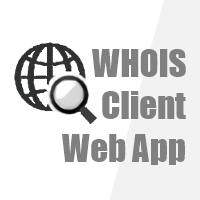
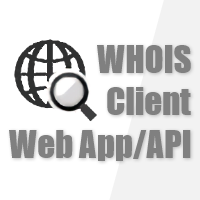
Improve UI design, and change title to "Web App/API"

Changed region(s): [[0.03, 0.18, 0.96, 0.84]]

diff --git a/WHOISClientWebApp/content/site.min.css b/WHOISClientWebApp/content/site.min.css
@@ -1,1 +1,1 @@
-[ng\:cloak],[ng-cloak],[data-ng-cloak],[x-ng-cloak],.ng-cloak,.x-ng-cloak{display:none !important;}.response{font-family:Consolas,monospace;}.response h4{font-size:100%;font-weight:bold;}.response pre{font-family:Consolas,monospace;font-size:.9rem;}.disabled button{background-color:#ccc !important;pointer-events:none;}
+[ng\:cloak],[ng-cloak],[data-ng-cloak],[x-ng-cloak],.ng-cloak,.x-ng-cloak{display:none !important;}.response{font-family:Consolas,monospace;}.response h4{font-size:100%;font-weight:bold;}.response pre{font-family:Consolas,monospace;font-size:.9rem;}.disabled button{background-color:#ccc !important;pointer-events:none;}.brand-logo{font-family:Impact,"Roboto",sans-serif;}.page-footer a:hover{text-decoration:underline;}.page-footer a:hover.grey-text{color:#bdbdbd !important;}.page-footer a:hover.grey-text.text-lighten-1{color:#cdcdcd !important;}.page-footer a:hover.grey-text.text-lighten-4{color:#fff !important;}

diff --git a/WHOISClientWebApp/content/site.scss b/WHOISClientWebApp/content/site.scss
@@ -23,3 +23,25 @@ body {
     background-color: #ccc !important;
     pointer-events: none;
 }
+
+.brand-logo {
+    font-family: Impact, "Roboto", sans-serif;
+}
+
+.page-footer {
+    a:hover {
+        text-decoration: underline;
+
+        &.grey-text {
+            color: #bdbdbd !important;
+
+            &.text-lighten-1 {
+                color: #cdcdcd !important;
+            }
+
+            &.text-lighten-4 {
+                color: #fff !important;
+            }
+        }
+    }
+}

diff --git a/WHOISClientWebApp/content/site.css b/WHOISClientWebApp/content/site.css
@@ -14,3 +14,15 @@
   background-color: #ccc !important;
   pointer-events: none; }
 
+.brand-logo {
+  font-family: Impact, "Roboto", sans-serif; }
+
+.page-footer a:hover {
+  text-decoration: underline; }
+  .page-footer a:hover.grey-text {
+    color: #bdbdbd !important; }
+    .page-footer a:hover.grey-text.text-lighten-1 {
+      color: #cdcdcd !important; }
+    .page-footer a:hover.grey-text.text-lighten-4 {
+      color: #fff !important; }
+
